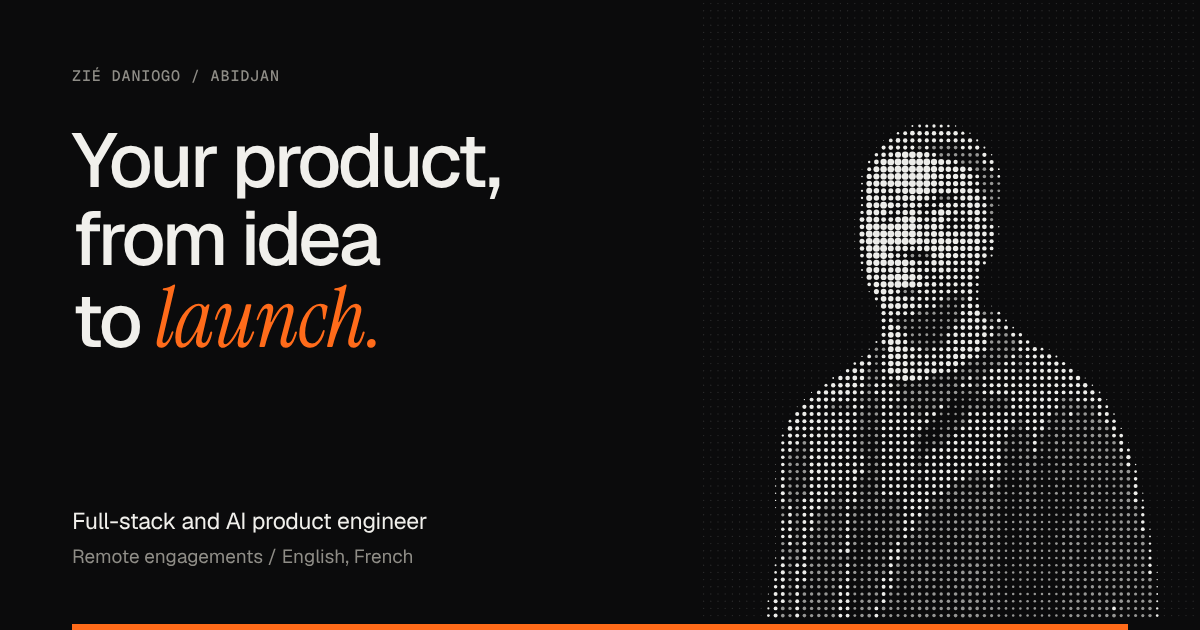
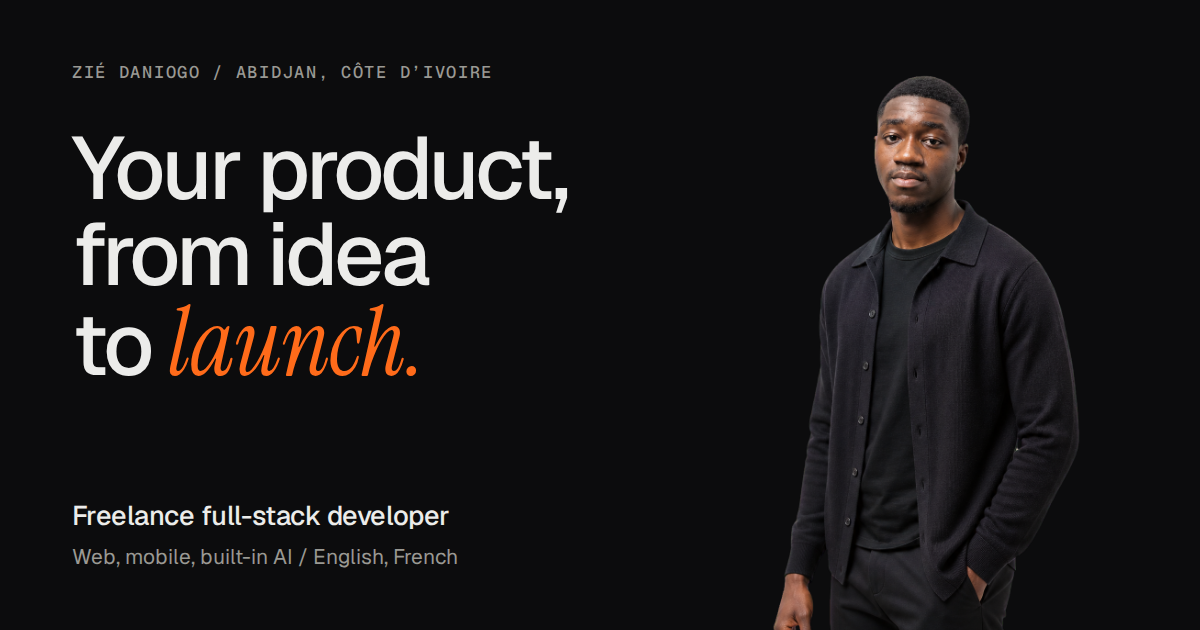
Travailler le référencement : titres, données structurées, images de partage
- Titres et descriptions par page et par langue, avec le métier cherché
  (développeur full-stack freelance) et le lieu.
- Données structurées WebSite, ProfilePage et Person reliées entre elles,
  avec le portrait en noir.
- Sitemap daté avec x-default, manifeste, consignes pour les robots.
- Images de partage refaites à partir du portrait en noir, par un script
  rejouable (scripts/export-og.mjs).
- Images servies en AVIF, à défaut en WebP.

diff --git a/app/data/metadata.ts b/app/data/metadata.ts
@@ -1,6 +1,9 @@
 import type { Metadata } from "next";
 import { content } from "./content";
-import { links, localePath, person, siteUrl, type Locale } from "./site";
+import { lastUpdated, links, localePath, person, siteUrl, type Locale } from "./site";
+
+/** Portrait utilisé par les moteurs de recherche pour la fiche de la personne (en noir, fond clair). */
+const portrait = { url: `${siteUrl}/portraits/cv-portrait.jpg`, width: 600, height: 720 };
 
 /** Métadonnées complètes d’une page : titre, description, URL canonique, alternatives de langue, partage. */
 export function pageMetadata(locale: Locale, path: string, title: string, description: string): Metadata {
@@ -14,8 +17,15 @@ export function pageMetadata(locale: Locale, path: string, title: string, descri
       canonical: url,
       languages: { fr: localePath("fr", path), en: localePath("en", path), "x-default": localePath("fr", path) },
     },
+    robots: {
+      index: true,
+      follow: true,
+      googleBot: { index: true, follow: true, "max-image-preview": "large", "max-snippet": -1 },
+    },
     openGraph: {
-      type: "website",
+      type: "profile",
+      firstName: person.givenName,
+      lastName: person.familyName,
       siteName: person.name,
       url,
       title,
@@ -33,34 +43,91 @@ export function pageMetadata(locale: Locale, path: string, title: string, descri
   };
 }
 
-/** Données structurées schema.org de la personne, pour les moteurs de recherche. */
-export function personJsonLd(locale: Locale) {
+const jobTitle: Record<Locale, string> = {
+  fr: "Développeur full-stack freelance",
+  en: "Freelance full-stack developer",
+};
+
+// Ce que la personne sait construire : technologies et types de systèmes, sans produit ni client.
+const knowsAbout = [
+  "Laravel",
+  "PHP",
+  "React",
+  "Next.js",
+  "TypeScript",
+  "Inertia.js",
+  "Tailwind CSS",
+  "React Native",
+  "Expo",
+  "PostgreSQL",
+  "PostGIS",
+  "MySQL",
+  "Docker",
+  "Offline-first mobile apps",
+  "AI integration",
+  "Speech recognition",
+  "Optical character recognition",
+  "Semantic search",
+];
+
+/**
+ * Données structurées schema.org de la page d’accueil : le site, la page de profil et la personne,
+ * reliés par leurs identifiants. L’employeur n’y figure pas, comme sur le site.
+ */
+export function profileJsonLd(locale: Locale) {
   const t = content[locale];
+  const url = `${siteUrl}${localePath(locale)}`;
+  const personId = `${siteUrl}/#person`;
+  const websiteId = `${siteUrl}/#website`;
   return {
     "@context": "https://schema.org",
-    "@type": "Person",
-    name: person.name,
-    alternateName: person.fullName,
-    jobTitle: locale === "fr" ? "Ingénieur produit full-stack et IA" : "Full-stack and AI product engineer",
-    description: t.meta.description,
-    url: `${siteUrl}${localePath(locale)}`,
-    image: `${siteUrl}/og/og-${locale}.png`,
-    email: `mailto:${links.email}`,
-    telephone: links.tel.replace("tel:", ""),
-    address: { "@type": "PostalAddress", addressLocality: "Abidjan", addressCountry: "CI" },
-    knowsLanguage: ["fr", "en"],
-    knowsAbout: [
-      "Laravel",
-      "React",
-      "Next.js",
-      "TypeScript",
-      "React Native",
-      "Expo",
-      "Node.js",
-      "AI agents",
-      "Voice assistants",
-      "Oracle Cloud Infrastructure",
+    "@graph": [
+      {
+        "@type": "WebSite",
+        "@id": websiteId,
+        url: siteUrl,
+        name: person.name,
+        inLanguage: ["fr", "en"],
+        publisher: { "@id": personId },
+      },
+      {
+        "@type": "ProfilePage",
+        "@id": `${url}#profile`,
+        url,
+        name: t.meta.title,
+        description: t.meta.description,
+        inLanguage: locale,
+        isPartOf: { "@id": websiteId },
+        dateModified: lastUpdated,
+        primaryImageOfPage: { "@type": "ImageObject", ...portrait },
+        mainEntity: { "@id": personId },
+      },
+      {
+        "@type": "Person",
+        "@id": personId,
+        name: person.name,
+        givenName: person.givenName,
+        familyName: person.familyName,
+        alternateName: person.fullName,
+        jobTitle: jobTitle[locale],
+        description: t.meta.description,
+        url,
+        image: { "@type": "ImageObject", ...portrait },
+        email: `mailto:${links.email}`,
+        telephone: links.tel.replace("tel:", ""),
+        address: { "@type": "PostalAddress", addressLocality: "Abidjan", addressCountry: "CI" },
+        workLocation: { "@type": "City", name: "Abidjan" },
+        knowsLanguage: ["fr", "en"],
+        knowsAbout,
+        alumniOf: { "@type": "EducationalOrganization", name: "Pigier Côte d’Ivoire" },
+        hasOccupation: {
+          "@type": "Occupation",
+          name: jobTitle[locale],
+          occupationLocation: { "@type": "Country", name: "Côte d’Ivoire" },
+          skills: knowsAbout.join(", "),
+        },
+        sameAs: [links.github],
+      },
     ],
-    sameAs: [links.github],
   };
 }

diff --git a/app/sitemap.ts b/app/sitemap.ts
@@ -1,16 +1,18 @@
 import type { MetadataRoute } from "next";
-import { siteUrl } from "./data/site";
+import { lastUpdated, siteUrl } from "./data/site";
 
+// Chaque page figure dans ses deux langues, avec ses alternatives (hreflang) et sa date de mise à jour.
 export default function sitemap(): MetadataRoute.Sitemap {
   const pages = [
     { fr: "/", en: "/en", priority: 1 },
     { fr: "/cv", en: "/en/cv", priority: 0.6 },
   ];
   return pages.flatMap(({ fr, en, priority }) => {
-    const languages = { fr: `${siteUrl}${fr}`, en: `${siteUrl}${en}` };
+    const languages = { fr: `${siteUrl}${fr}`, en: `${siteUrl}${en}`, "x-default": `${siteUrl}${fr}` };
+    const shared = { lastModified: lastUpdated, changeFrequency: "monthly" as const, priority, alternates: { languages } };
     return [
-      { url: languages.fr, changeFrequency: "monthly" as const, priority, alternates: { languages } },
-      { url: languages.en, changeFrequency: "monthly" as const, priority, alternates: { languages } },
+      { url: languages.fr, ...shared },
+      { url: languages.en, ...shared },
     ];
   });
 }

diff --git a/app/[lang]/page.tsx b/app/[lang]/page.tsx
@@ -2,7 +2,7 @@ import type { Metadata } from "next";
 import { notFound } from "next/navigation";
 import Portfolio from "../components/Portfolio";
 import { content } from "../data/content";
-import { pageMetadata, personJsonLd } from "../data/metadata";
+import { pageMetadata, profileJsonLd } from "../data/metadata";
 import { isLocale } from "../data/site";
 
 type Props = { params: Promise<{ lang: string }> };
@@ -21,7 +21,7 @@ export default async function Home({ params }: Props) {
     <>
       <script
         type="application/ld+json"
-        dangerouslySetInnerHTML={{ __html: JSON.stringify(personJsonLd(lang)).replace(/</g, "\\u003c") }}
+        dangerouslySetInnerHTML={{ __html: JSON.stringify(profileJsonLd(lang)).replace(/</g, "\\u003c") }}
       />
       <Portfolio locale={lang} t={content[lang]} />
     </>

diff --git a/app/manifest.ts b/app/manifest.ts
@@ -1,0 +1,20 @@
+import type { MetadataRoute } from "next";
+import { person } from "./data/site";
+
+// Manifeste du site : nom, couleurs et icônes pour l’ajout à l’écran d’accueil.
+export default function manifest(): MetadataRoute.Manifest {
+  return {
+    name: `${person.name}, développeur full-stack freelance`,
+    short_name: person.name,
+    description: "Développeur full-stack freelance à Abidjan : applications web, mobiles et IA intégrée.",
+    start_url: "/",
+    display: "standalone",
+    lang: "fr",
+    background_color: "#0c0c0d",
+    theme_color: "#0c0c0d",
+    icons: [
+      { src: "/icon.png", sizes: "512x512", type: "image/png" },
+      { src: "/apple-icon.png", sizes: "180x180", type: "image/png" },
+    ],
+  };
+}

diff --git a/app/data/site.ts b/app/data/site.ts
@@ -11,8 +11,13 @@ export function isLocale(value: string): value is Locale {
 
 export const siteUrl = "https://portfolio-eight-rust-82.vercel.app";
 
+/** Date de la dernière mise à jour du contenu, pour le sitemap et les données structurées. */
+export const lastUpdated = "2026-11-15";
+
 export const person = {
   name: "Zié Daniogo",
+  givenName: "Zié",
+  familyName: "Daniogo",
   fullName: "Zié Aboubakar junior Daniogo",
 };
 

diff --git a/next.config.ts b/next.config.ts
@@ -7,6 +7,10 @@ const nextConfig: NextConfig = {
   experimental: {
     globalNotFound: true,
   },
+  // Portraits servis en AVIF, à défaut en WebP : le détouré de la hero pèse plus d’un mégaoctet en PNG.
+  images: {
+    formats: ["image/avif", "image/webp"],
+  },
   async redirects() {
     return [
       { source: "/fr", destination: "/", permanent: true },
